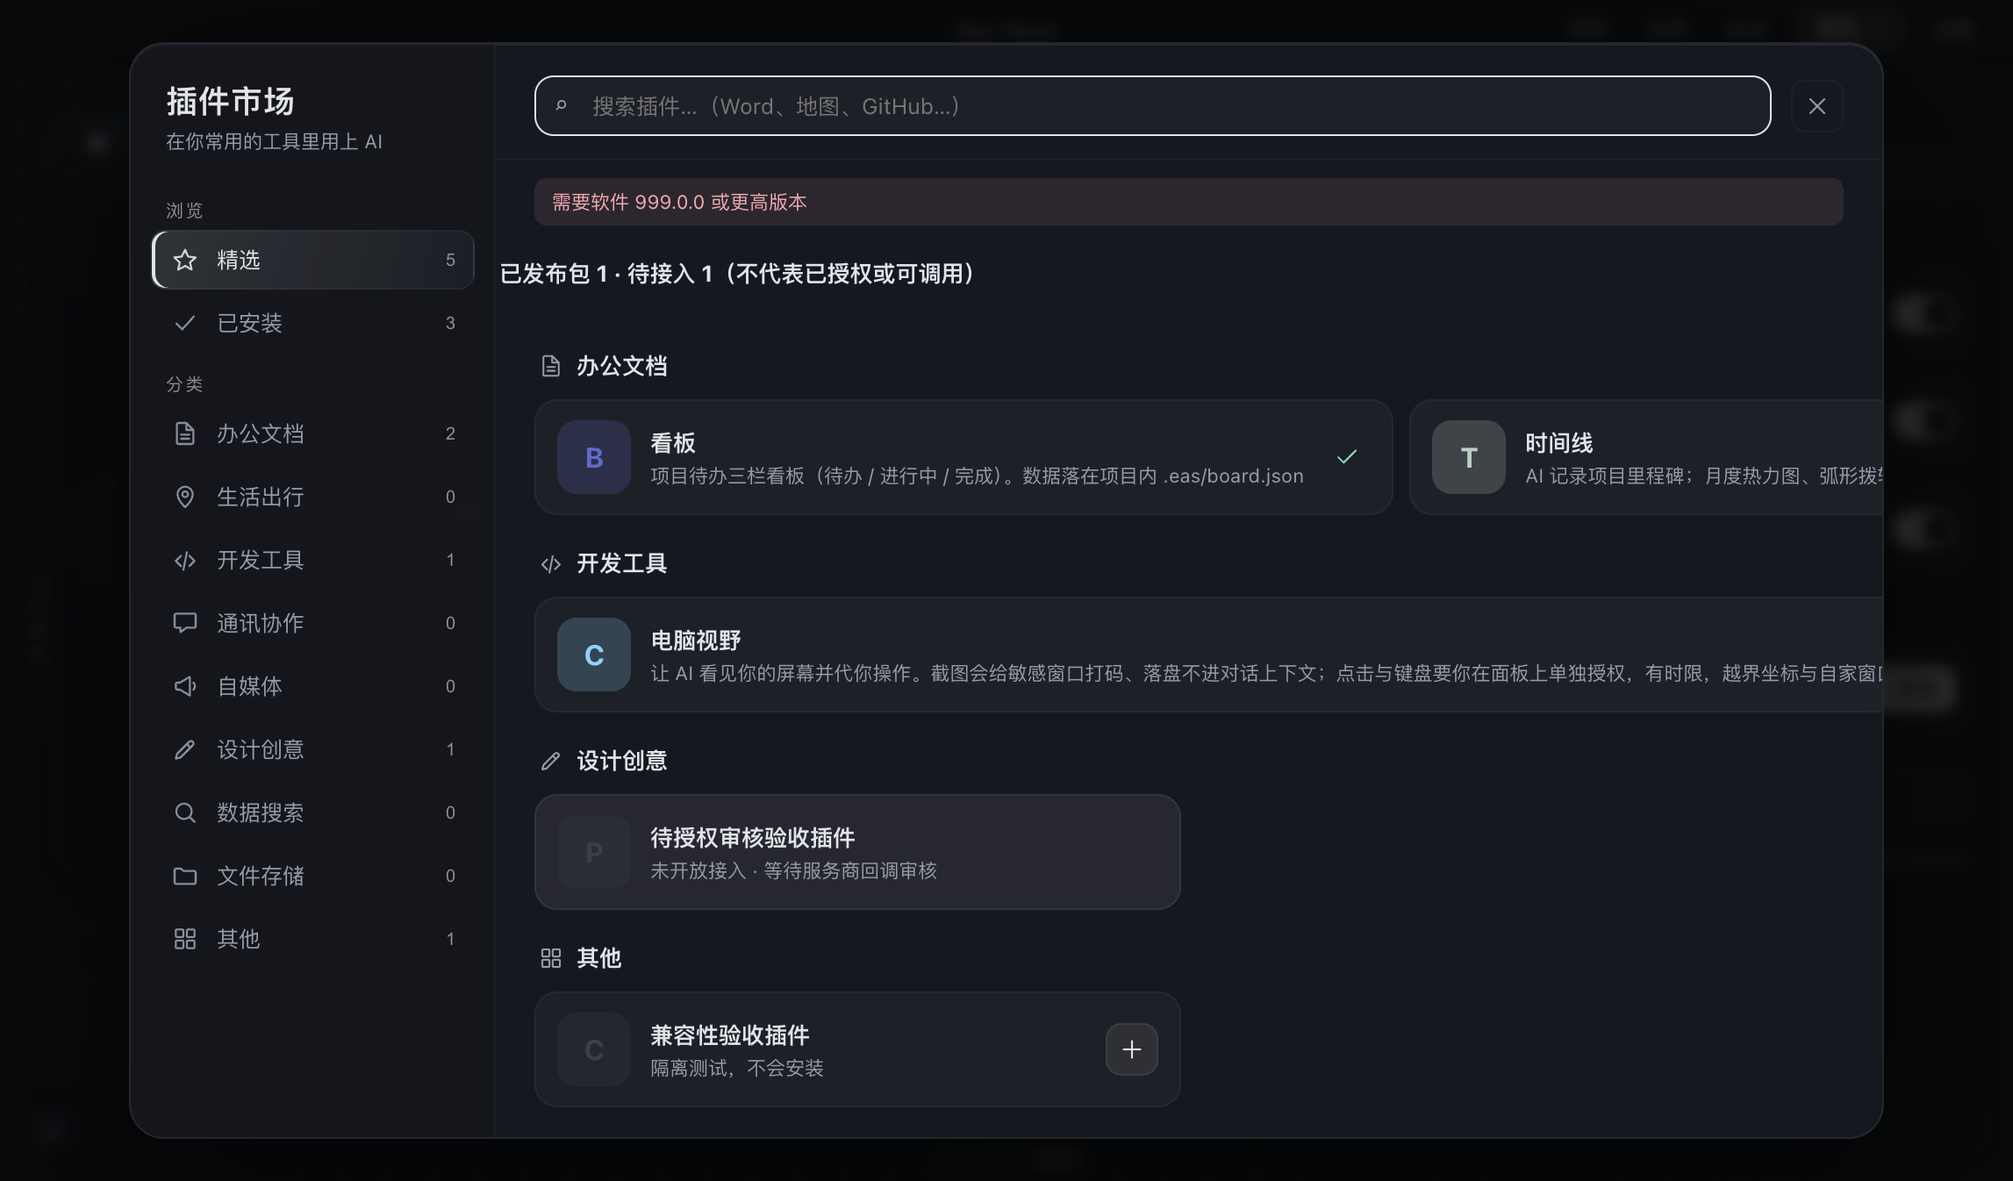
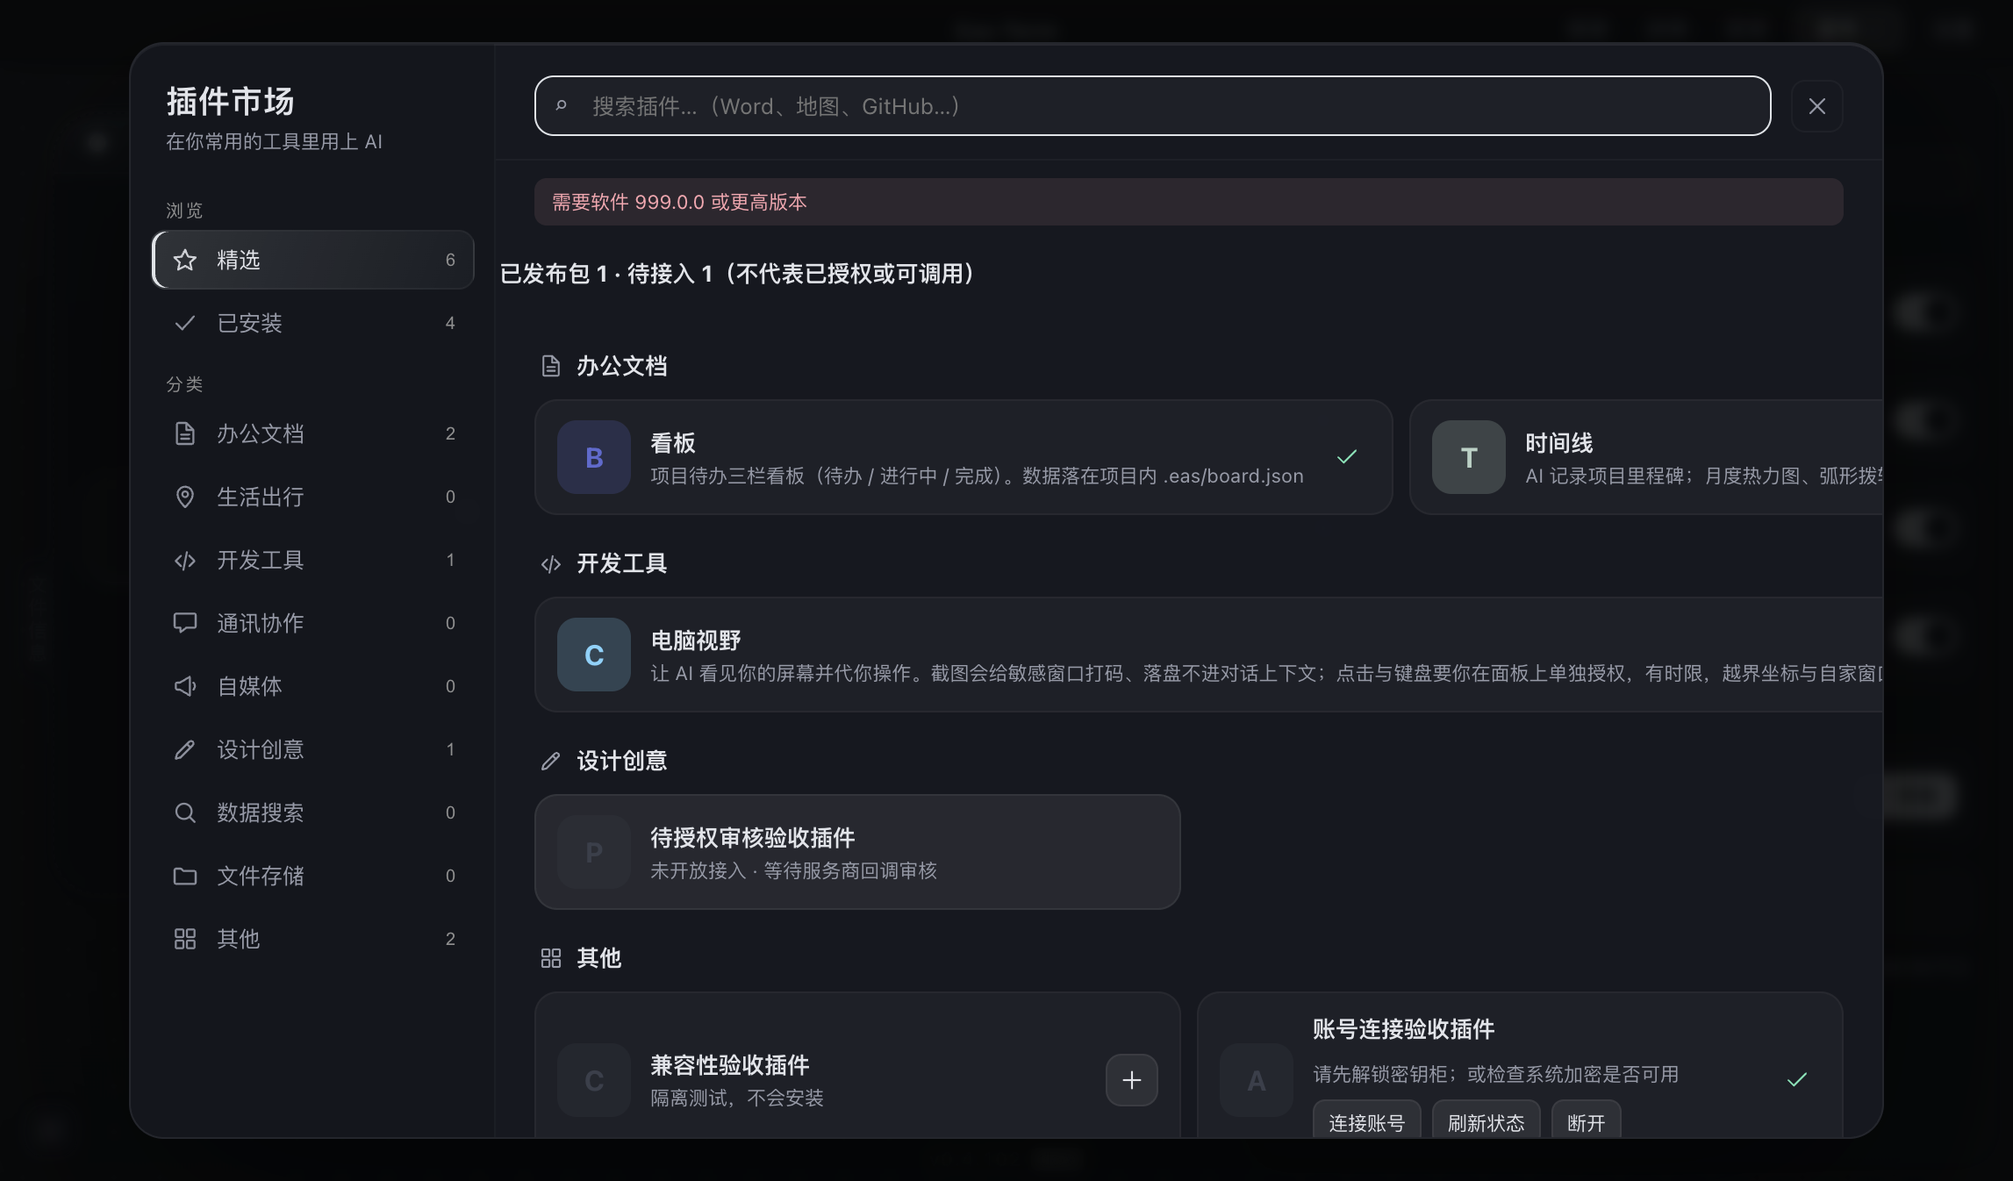
feat(plugins): add guarded account actions and marketplace controls

diff --git a/docs/verification/plugin-marketplace/progress.html b/docs/verification/plugin-marketplace/progress.html
@@ -1,9 +1,16 @@
-<!doctype html><html lang="zh-CN"><head><meta charset="utf-8"><meta name="viewport" content="width=device-width,initial-scale=1"><title>插件接入 · 实时进度</title><style>*{box-sizing:border-box}body{margin:0;background:#0a0a0a;color:#f5f5f5;font:15px/1.75 -apple-system,BlinkMacSystemFont,"PingFang SC",sans-serif}main{max-width:1080px;padding:28px;margin:auto}h1{font-size:29px;letter-spacing:-.02em;margin:8px 0}h2{font-size:12px;color:#a3a3a3;letter-spacing:.15em}section{background:rgba(23,23,23,.5);border:1px solid #262626;border-radius:14px;padding:20px;margin:18px 0}.muted{color:#a3a3a3}.warn{border-left:2px solid #fbbf24}.good{color:#6ee7b7}table{width:100%;border-collapse:collapse;font-size:13.5px}td{padding:9px;border-bottom:1px solid #262626}pre{background:#111;white-space:pre-wrap;overflow-wrap:anywhere;padding:16px;border-radius:12px;font-size:12px}.tw{overflow-x:auto}</style></head><body><main><h2>LIVE TASK STATUS / 本地轮询节点</h2><h1>插件市场统一接入</h1><p class="muted">按原 Demo 32 项接入 · 未上线 · 不修改正式应用</p><section class="warn"><b>通过 · 隔离应用回归：市场入口与兼容性拒绝（非账号登录验收）</b><p>本次任务耗时 5 秒</p><p class="muted">最后采样：2026-09-18T05:52:27-07:00</p><p id="stale"></p></section><section><h2>DELIVERY / 交付阶段</h2><div class="tw"><table><tr><td>清单与设计</td><td class="good">已确认 · 32 项</td></tr><tr><td>兼容性门禁</td><td>代码已接线 · 不兼容拒绝已隔离 UI 验证</td></tr><tr><td>打包与安装边界</td><td>清单确认后防变更、普通更新失败回退已测试</td></tr><tr><td>远程 MCP / 统一授权</td><td>无需认证传输已接宿主并做隔离网关测试；账号授权/界面未完成</td></tr><tr><td>32 项插件接入</td><td>未完成；不以目录卡片计完成数</td></tr><tr><td>市场独立更新验收</td><td>未完成</td></tr></table></div></section><section><h2>PROCESS / 真实任务输出</h2><pre>{
+<!doctype html><html lang="zh-CN"><head><meta charset="utf-8"><meta name="viewport" content="width=device-width,initial-scale=1"><title>插件接入 · 实时进度</title><style>*{box-sizing:border-box}body{margin:0;background:#0a0a0a;color:#f5f5f5;font:15px/1.75 -apple-system,BlinkMacSystemFont,"PingFang SC",sans-serif}main{max-width:1080px;padding:28px;margin:auto}h1{font-size:29px;letter-spacing:-.02em;margin:8px 0}h2{font-size:12px;color:#a3a3a3;letter-spacing:.15em}section{background:rgba(23,23,23,.5);border:1px solid #262626;border-radius:14px;padding:20px;margin:18px 0}.muted{color:#a3a3a3}.warn{border-left:2px solid #fbbf24}.good{color:#6ee7b7}table{width:100%;border-collapse:collapse;font-size:13.5px}td{padding:9px;border-bottom:1px solid #262626}pre{background:#111;white-space:pre-wrap;overflow-wrap:anywhere;padding:16px;border-radius:12px;font-size:12px}.tw{overflow-x:auto}</style></head><body><main><h2>LIVE TASK STATUS / 本地轮询节点</h2><h1>插件市场统一接入</h1><p class="muted">按原 Demo 32 项接入 · 未上线 · 不修改正式应用</p><section class="warn"><b>通过 · 账号连接 UI 与 guarded IPC：全量检查、构建、隔离眼验</b><p>本次任务耗时 70 秒</p><p class="muted">最后采样：2026-09-18T06:03:10-07:00</p><p id="stale"></p></section><section><h2>DELIVERY / 交付阶段</h2><div class="tw"><table><tr><td>清单与设计</td><td class="good">已确认 · 32 项</td></tr><tr><td>兼容性门禁</td><td>代码已接线 · 不兼容拒绝已隔离 UI 验证</td></tr><tr><td>打包与安装边界</td><td>清单确认后防变更、普通更新失败回退已测试</td></tr><tr><td>远程 MCP / 统一授权</td><td>无需认证传输已接宿主并做隔离网关测试；账号授权/界面未完成</td></tr><tr><td>32 项插件接入</td><td>未完成；不以目录卡片计完成数</td></tr><tr><td>市场独立更新验收</td><td>未完成</td></tr></table></div></section><section><h2>PROCESS / 真实任务输出</h2><pre>../../out/renderer/assets/index-CqDpSFec.js                228.28 kB
+../../out/renderer/assets/DictView-V6gnTt7R.js             656.69 kB
+../../out/renderer/assets/dictionary-bundle-ZdkIBe8W.js  1,489.45 kB
+../../out/renderer/assets/index-D6RLS707.js              4,412.40 kB
+✓ built in 3.23s
+{
   &quot;passed&quot;: true,
   &quot;checks&quot;: [
     &quot;市场展示隔离目录条目&quot;,
+    &quot;OAuth账号控制显示连接/刷新/断开与真实锁定状态&quot;,
+    &quot;实际IPC只返回状态，不返回凭证&quot;,
     &quot;v2待接入条目展示原因且无安装按钮&quot;,
     &quot;点击接入后显示明确宿主版本错误&quot;,
     &quot;请求仅为目录，未下载插件包&quot;
   ]
-}</pre></section><p class="muted">运行时每 5 秒采样并刷新；结束后显示真实退出结果。页面轮询不会启动任务，也不会让 AI 在会话结束后自行继续开发。</p><p>反馈指令：<code>汇报当前阻碍</code></p></main><script>const age=(Date.now()-Date.parse('2026-09-18T05:52:27-07:00'))/1000;if(age>30&&false)document.getElementById('stale').textContent='采样已超过 30 秒未更新，任务状态待核实，不能据此认定仍在运行。';</script></body></html>
+}</pre></section><p class="muted">运行时每 5 秒采样并刷新；结束后显示真实退出结果。页面轮询不会启动任务，也不会让 AI 在会话结束后自行继续开发。</p><p>反馈指令：<code>汇报当前阻碍</code></p></main><script>const age=(Date.now()-Date.parse('2026-09-18T06:03:10-07:00'))/1000;if(age>30&&false)document.getElementById('stale').textContent='采样已超过 30 秒未更新，任务状态待核实，不能据此认定仍在运行。';</script></body></html>

diff --git a/src/main/pluginConnections/authorizationActions.test.ts b/src/main/pluginConnections/authorizationActions.test.ts
@@ -1,0 +1,22 @@
+import {test} from 'node:test'
+import assert from 'node:assert/strict'
+import * as actions from './authorizationActions.ts'
+import type {PluginInfo} from '../../shared/types'
+const plugin={id:'eas:fixture',name:'fixture',cli:'eas',displayName:'Fixture',remote:{transport:'streamable-http',url:'https://mcp.example.com/mcp',approvedOrigins:['https://mcp.example.com'],auth:'oauth',oauth:{issuer:'https://mcp.example.com',authorizationEndpoint:'https://mcp.example.com/auth',tokenEndpoint:'https://mcp.example.com/token',clientId:'fixture'}}} as PluginInfo
+function setup(){let current:PluginInfo|undefined=plugin,accepted=true,logins=0,disconnects=0
+ const api=actions.createAuthorizationActions({find:()=>current,runtime:()=>({status:()=> 'disconnected' as const,login:async()=>{logins++;return {authorized:true as const}},disconnect:()=>{disconnects++}}),confirm:async()=>accepted})
+ return {api,replace:(p:PluginInfo|undefined)=>{current=p},deny:()=>{accepted=false},counts:()=>({logins,disconnects})}
+}
+test('authorization actions expose status only and require confirmed explicit login',async()=>{
+ const f=setup();assert.deepEqual(await f.api('status',plugin.id),{ok:true,status:'disconnected'})
+ f.deny();assert.equal((await f.api('login',plugin.id)).ok,false);assert.equal(f.counts().logins,0)
+ const g=setup();assert.deepEqual(await g.api('login',plugin.id),{ok:true,status:'disconnected'});assert.equal(g.counts().logins,1)
+ assert.equal((await g.api('disconnect',plugin.id)).ok,true);assert.equal(g.counts().disconnects,1)
+ for(const id of [null,'eas:../escape','codex:fixture',{}])assert.equal((await g.api('login',id)).ok,false)
+})
+test('confirmation cannot authorize a changed manifest or disabled plugin',async()=>{
+ let current=plugin,logins=0
+ const api=actions.createAuthorizationActions({find:()=>current,runtime:()=>({status:()=> 'disconnected' as const,login:async()=>{logins++;return {authorized:true as const}},disconnect:()=>{}}),confirm:async()=>{current={...plugin,remote:{...plugin.remote!,url:'https://other.example/mcp'}};return true}})
+ assert.equal((await api('login',plugin.id)).ok,false);assert.equal(logins,0)
+ const f=setup();f.replace({...plugin,enabled:false});assert.equal((await f.api('login',plugin.id)).ok,false)
+})

diff --git a/src/main/plugins.ts b/src/main/plugins.ts
@@ -1,3 +1,6 @@
+import { createAuthorizationActions } from './pluginConnections/authorizationActions.ts'
+import { getPluginAuthorization } from './pluginAuthorization'
+import { BrowserWindow, dialog } from 'electron'
 // 扫出用户**已安装**的 CLI 插件，归一化成 PluginInfo 交给画布用。
 //
 // ── 为什么读文件而不是跑 `codex plugin list` / `claude plugin list` ──────────
@@ -248,6 +251,18 @@ export function findPlugin(id: string): PluginInfo | undefined {
 }
 
 export function registerPluginHandlers(): void {
+  guardedHandle('plugins:authorization', (event, args: {action?:unknown;id?:unknown}) => {
+    const win=BrowserWindow.fromWebContents(event.sender)
+    if(!win||win.isDestroyed())return {ok:false,error:'工作台窗口已关闭'}
+    return createAuthorizationActions({find:findPlugin,runtime:getPluginAuthorization,confirm:async(info,action)=>{
+      const remote=info.remote!
+      const response=await dialog.showMessageBox(win,{type:'question',title:action==='login'?'连接插件账号':'断开插件账号',
+        message:action==='login'?`连接「${info.displayName}」的账号？`:`断开「${info.displayName}」？`,
+        detail:action==='login'?`将在系统浏览器中打开服务商授权页。资源：${remote.url}\n授权服务：${remote.auth==='oauth'?remote.oauth.issuer:''}\n权限：${remote.auth==='oauth'?(remote.oauth.scope??'服务商默认'):''}\n凭证加密保存在本机，不传给模型。`:'关闭此插件的授权连接并删除当前配置的本地凭证。不撤销已发生的操作；上游授权请到服务商设置撤销。',
+        buttons:['取消',action==='login'?'连接账号':'断开'],defaultId:0,cancelId:0})
+      return response.response===1&&!win.isDestroyed()
+    }})(args?.action,args?.id)
+  })
   guardedHandle('plugins:list', (): PluginInfo[] => listPlugins())
   // 开/关一个插件的总闸。只写 userData/plugin-enabled.json，不碰插件本身（关 ≠ 卸载）。
   guardedHandle('plugins:setEnabled', (_e, arg: { id?: unknown; enabled?: unknown }): { ok: boolean } => {

diff --git a/src/renderer/src/features/canvas/PluginMarketModal.tsx b/src/renderer/src/features/canvas/PluginMarketModal.tsx
@@ -1,6 +1,7 @@
 // 完整插件市场弹窗（「更多 › 插件」页点「查看完整插件市场」进来）。
 // 左边智能分类、顶部搜索、卡片用真实品牌 logo + 名字 + 简介 + 安装。设计稿
 // docs/prototype/2026-09-15-plugin-market-full.html。数据来自 registry（可装）+ 已装列表。
+import { PluginAccountControls } from './PluginAccountControls'
 import { useEffect, useState } from 'react'
 import { createPortal } from 'react-dom'
 import type { PluginInfo, PluginRegistryEntry, PluginUnavailableEntry } from '../../../../shared/types'
@@ -28,6 +29,7 @@ type Item = {
   installed: boolean
   reg?: PluginRegistryEntry
   cli?: string
+  plugin?: PluginInfo
 }
 type Pending = { token: string; name: string; displayName: string; version: string; size: number; permissions: string[] }
 
@@ -81,6 +83,7 @@ export function PluginMarketModal({ onClose, onChanged }: { onClose: () => void;
     for (const p of plugins ?? []) {
       if (map.has(p.name)) {
         map.get(p.name)!.installed = true
+        map.get(p.name)!.plugin = p
         continue
       }
       map.set(p.name, {
@@ -90,6 +93,7 @@ export function PluginMarketModal({ onClose, onChanged }: { onClose: () => void;
         brandColor: p.brandColor,
         catId: categoryIdOf(p.category),
         installed: true,
+        plugin: p,
         cli: p.cli
       })
     }
@@ -144,6 +148,7 @@ export function PluginMarketModal({ onClose, onChanged }: { onClose: () => void;
           </div>
           {it.description && <div className="pm-cd">{it.description}</div>}
           {it.reason && <div className="pm-cd" title={it.reason}>未开放接入 · {it.reason}</div>}
+          {it.plugin?.remote?.auth==='oauth'&&<PluginAccountControls id={it.plugin.id} enabled={it.plugin.enabled!==false}/>}
         </div>
         <div className="pm-cact">
           {it.installed ? (

diff --git a/src/renderer/src/features/canvas/PluginAccountControls.tsx b/src/renderer/src/features/canvas/PluginAccountControls.tsx
@@ -1,0 +1,29 @@
+import {useEffect,useRef,useState} from 'react'
+import {pluginAuthorizationLabel,type PluginAuthorizationAction,type PluginAuthorizationStatus} from '../../../../shared/pluginAuthorization'
+/** No timers/decryption polling. Refresh explicitly; credentials never cross this boundary. */
+export function PluginAccountControls({id,enabled}:{id:string;enabled:boolean}):JSX.Element {
+ const [status,setStatus]=useState<PluginAuthorizationStatus|null>(null)
+ const [busy,setBusy]=useState(false)
+ const [error,setError]=useState<string|null>(null)
+ const generation=useRef(0)
+ const run=async(action:PluginAuthorizationAction)=>{
+  const seq=++generation.current;setBusy(true);setError(null)
+  try{
+   const result=await window.api.plugins.authorization(action,id)
+   if(seq!==generation.current)return
+   if(result.ok)setStatus(result.status)
+   else setError(result.error)
+  }catch{if(seq===generation.current)setError('账号状态读取失败，请重试')}
+  finally{if(seq===generation.current)setBusy(false)}
+ }
+ useEffect(()=>{void run('status');return()=>{generation.current++}},[id])
+ return <div className="pm-auth" data-plugin-account={id}>
+  <div className="pm-cd" role="status">{busy?'账号操作中…':status?pluginAuthorizationLabel(status):'读取账号状态…'}</div>
+  {error&&<div className="pm-cd" role="alert">{error}</div>}
+  <div className="pm-auth-actions">
+   <button type="button" disabled={busy||!enabled} onClick={()=>void run('login')}>{status==='authorized'?'重新授权':'连接账号'}</button>
+   <button type="button" disabled={busy} onClick={()=>void run('status')}>刷新状态</button>
+   <button type="button" onClick={()=>void run('disconnect')}>断开</button>
+  </div>
+ </div>
+}

diff --git a/src/main/pluginConnections/authorizationActions.ts b/src/main/pluginConnections/authorizationActions.ts
@@ -1,0 +1,29 @@
+import type {PluginInfo} from '../../shared/types'
+import type {PluginAuthorizationResult} from '../../shared/pluginAuthorization.ts'
+import type {PluginAuthorizationRuntime} from './authorizationRuntime.ts'
+interface Dependencies {
+ find:(id:string)=>PluginInfo|undefined
+ runtime:(info:PluginInfo)=>Pick<PluginAuthorizationRuntime,'status'|'login'|'disconnect'>
+ confirm:(info:PluginInfo,action:'login'|'disconnect')=>Promise<boolean>
+}
+/** IPC accepts only action + installed ID. Never accepts endpoint, token, path or client ID. */
+export function createAuthorizationActions(deps:Dependencies){
+ return async(action:unknown,id:unknown):Promise<PluginAuthorizationResult>=>{
+  try{
+   if(!['status','login','disconnect'].includes(String(action))||typeof id!=='string'||!/^eas:[a-z0-9][a-z0-9-]{0,39}$/.test(id))throw Error('插件授权参数无效')
+   const info=deps.find(id)
+   if(!info||info.cli!=='eas'||info.remote?.auth!=='oauth')throw Error('插件未配置账号连接')
+   if(action==='login'&&info.enabled===false)throw Error('请先启用插件')
+   const snapshot=JSON.stringify(info.remote)
+   if(action!=='status'){
+    if(!await deps.confirm(info,action as 'login'|'disconnect'))return {ok:false,error:'已取消'}
+    const current=deps.find(id)
+    if(!current||JSON.stringify(current.remote)!==snapshot||(action==='login'&&current.enabled===false))throw Error('插件配置已变化，请重新确认')
+   }
+   const runtime=deps.runtime(info)
+   if(action==='login')await runtime.login()
+   if(action==='disconnect')runtime.disconnect()
+   return {ok:true,status:runtime.status()}
+  }catch(error){return {ok:false,error:error instanceof Error?error.message:'插件账号操作失败'}}
+ }
+}

diff --git a/src/preload/index.ts b/src/preload/index.ts
@@ -1,3 +1,4 @@
+import type { PluginAuthorizationAction, PluginAuthorizationResult } from '../shared/pluginAuthorization'
 import type { RuntimeMonitorSnapshot } from '../shared/runtimeResources.ts'
 import type { HistorySummary } from '../shared/historyCatalog'
 import type { UsageQuery, UsageSnapshot } from '../shared/usage.ts'
@@ -1132,6 +1133,7 @@ const api = {
     showLog: (): Promise<{ ok: boolean }> => ipcRenderer.invoke('diag:showLog')
   },
   plugins: {
+    authorization: (action: PluginAuthorizationAction, id: string): Promise<PluginAuthorizationResult> => ipcRenderer.invoke('plugins:authorization', {action,id}),
     /** 已装的 CLI 插件全表。**每次都当场扫盘**（见 main/plugins.ts），
      *  用户刚在终端里装完一个，回画布就能看到，不用重开软件。 */
     list: (): Promise<PluginInfo[]> => ipcRenderer.invoke('plugins:list'),

diff --git a/src/shared/pluginAuthorization.ts b/src/shared/pluginAuthorization.ts
@@ -1,0 +1,7 @@
+/** Credential-free UI contract. Authorized means local token exists, not service availability. */
+export type PluginAuthorizationStatus='disconnected'|'authorized'|'expired'|'locked-or-unavailable'
+export type PluginAuthorizationAction='status'|'login'|'disconnect'
+export type PluginAuthorizationResult={ok:true;status:PluginAuthorizationStatus}|{ok:false;error:string}
+export function pluginAuthorizationLabel(status:PluginAuthorizationStatus):string {
+ return {disconnected:'账号未连接',authorized:'凭证已保存 · 尚未测试连接',expired:'凭证已过期 · 调用前尝试刷新','locked-or-unavailable':'请先解锁密钥柜；或检查系统加密是否可用'}[status]
+}

diff --git a/src/renderer/src/features/canvas/canvas.css b/src/renderer/src/features/canvas/canvas.css
@@ -7015,3 +7015,15 @@
     opacity: 0;
   }
 }
+
+/* Plugin account controls reuse market tokens in both themes. */
+.pm-auth { margin-top: 9px; }
+.pm-auth .pm-cd { white-space: normal; overflow-wrap: anywhere; }
+.pm-auth-actions { display: flex; flex-wrap: wrap; gap: 6px; margin-top: 7px; }
+.pm-auth-actions button {
+  border: 1px solid var(--glass-border-strong); border-radius: 7px;
+  padding: 5px 8px; font: inherit; font-size: 11px;
+  color: var(--fg); background: var(--lift-2); cursor: pointer;
+}
+.pm-auth-actions button:hover:not(:disabled) { background: var(--lift-3); }
+.pm-auth-actions button:disabled { opacity: .5; cursor: default; }

diff --git a/src/shared/pluginAuthorization.test.ts b/src/shared/pluginAuthorization.test.ts
@@ -1,0 +1,9 @@
+import {test} from 'node:test'
+import assert from 'node:assert/strict'
+import * as authorization from './pluginAuthorization.ts'
+test('account status never claims provider is ready merely because a local token exists',()=>{
+ assert.deepEqual(authorization.pluginAuthorizationLabel('authorized'),'凭证已保存 · 尚未测试连接')
+ assert.match(authorization.pluginAuthorizationLabel('locked-or-unavailable'),/解锁密钥柜/)
+ assert.match(authorization.pluginAuthorizationLabel('disconnected'),/未连接/)
+ assert.match(authorization.pluginAuthorizationLabel('expired'),/过期/)
+})
